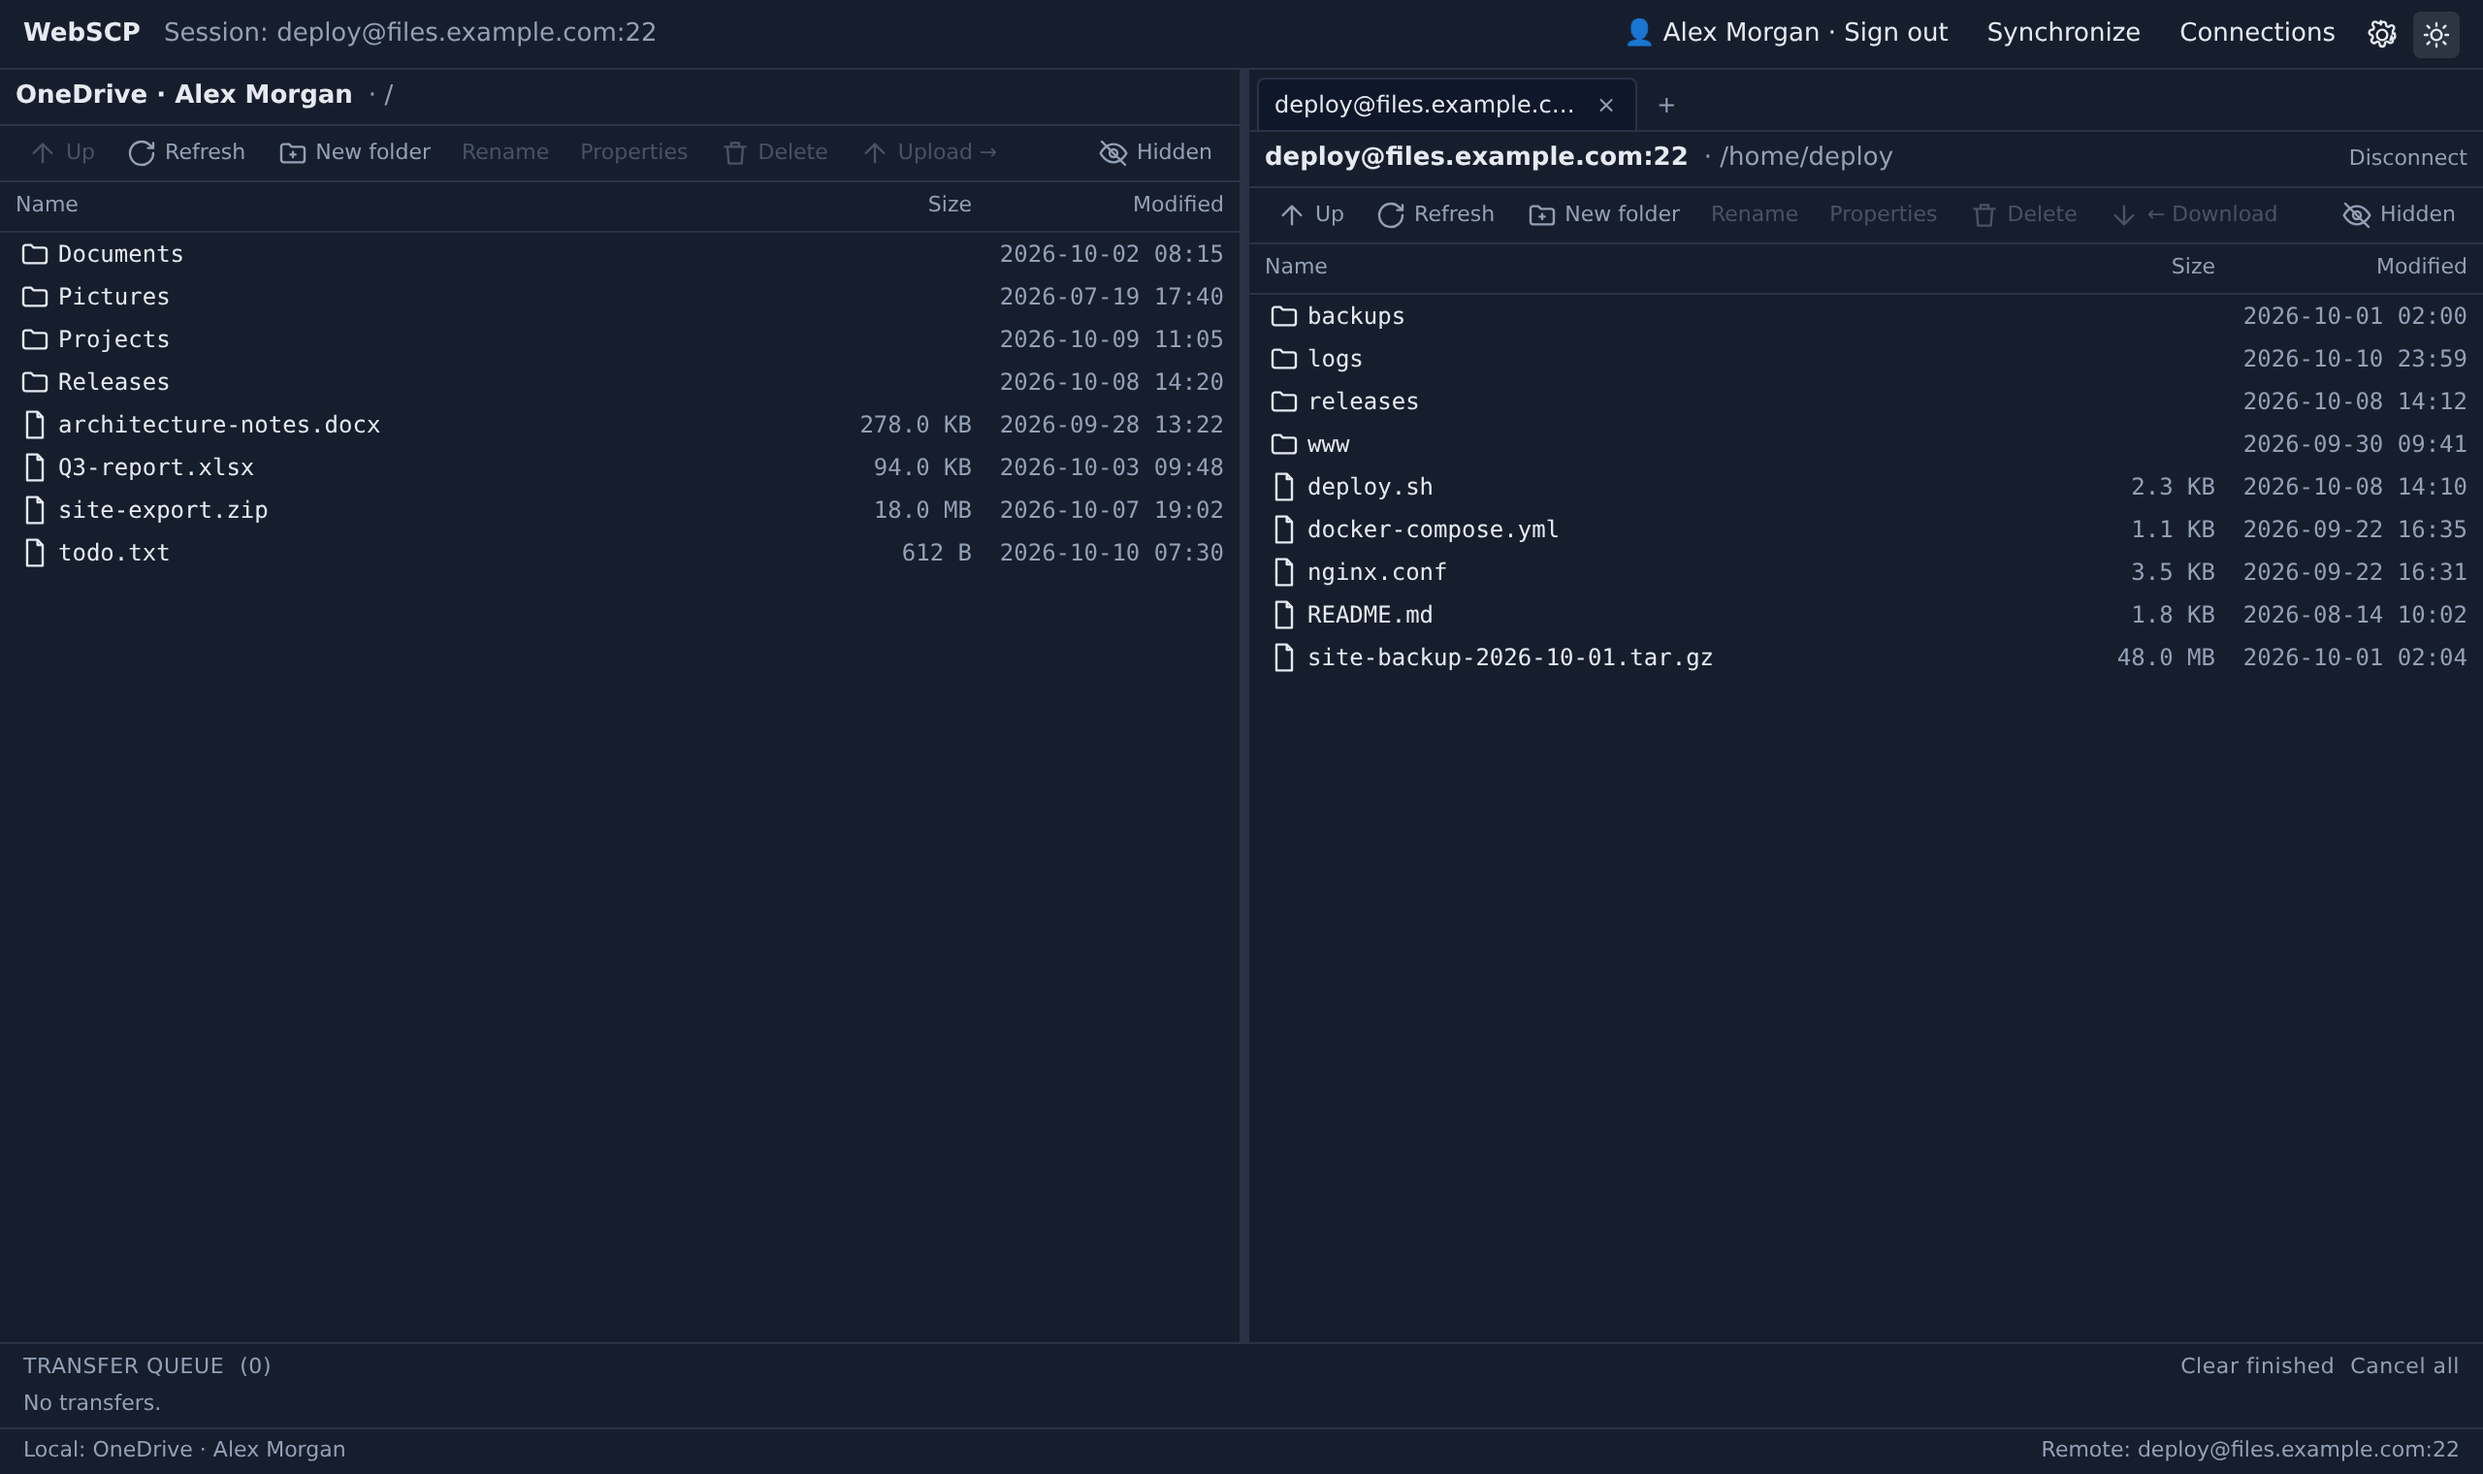
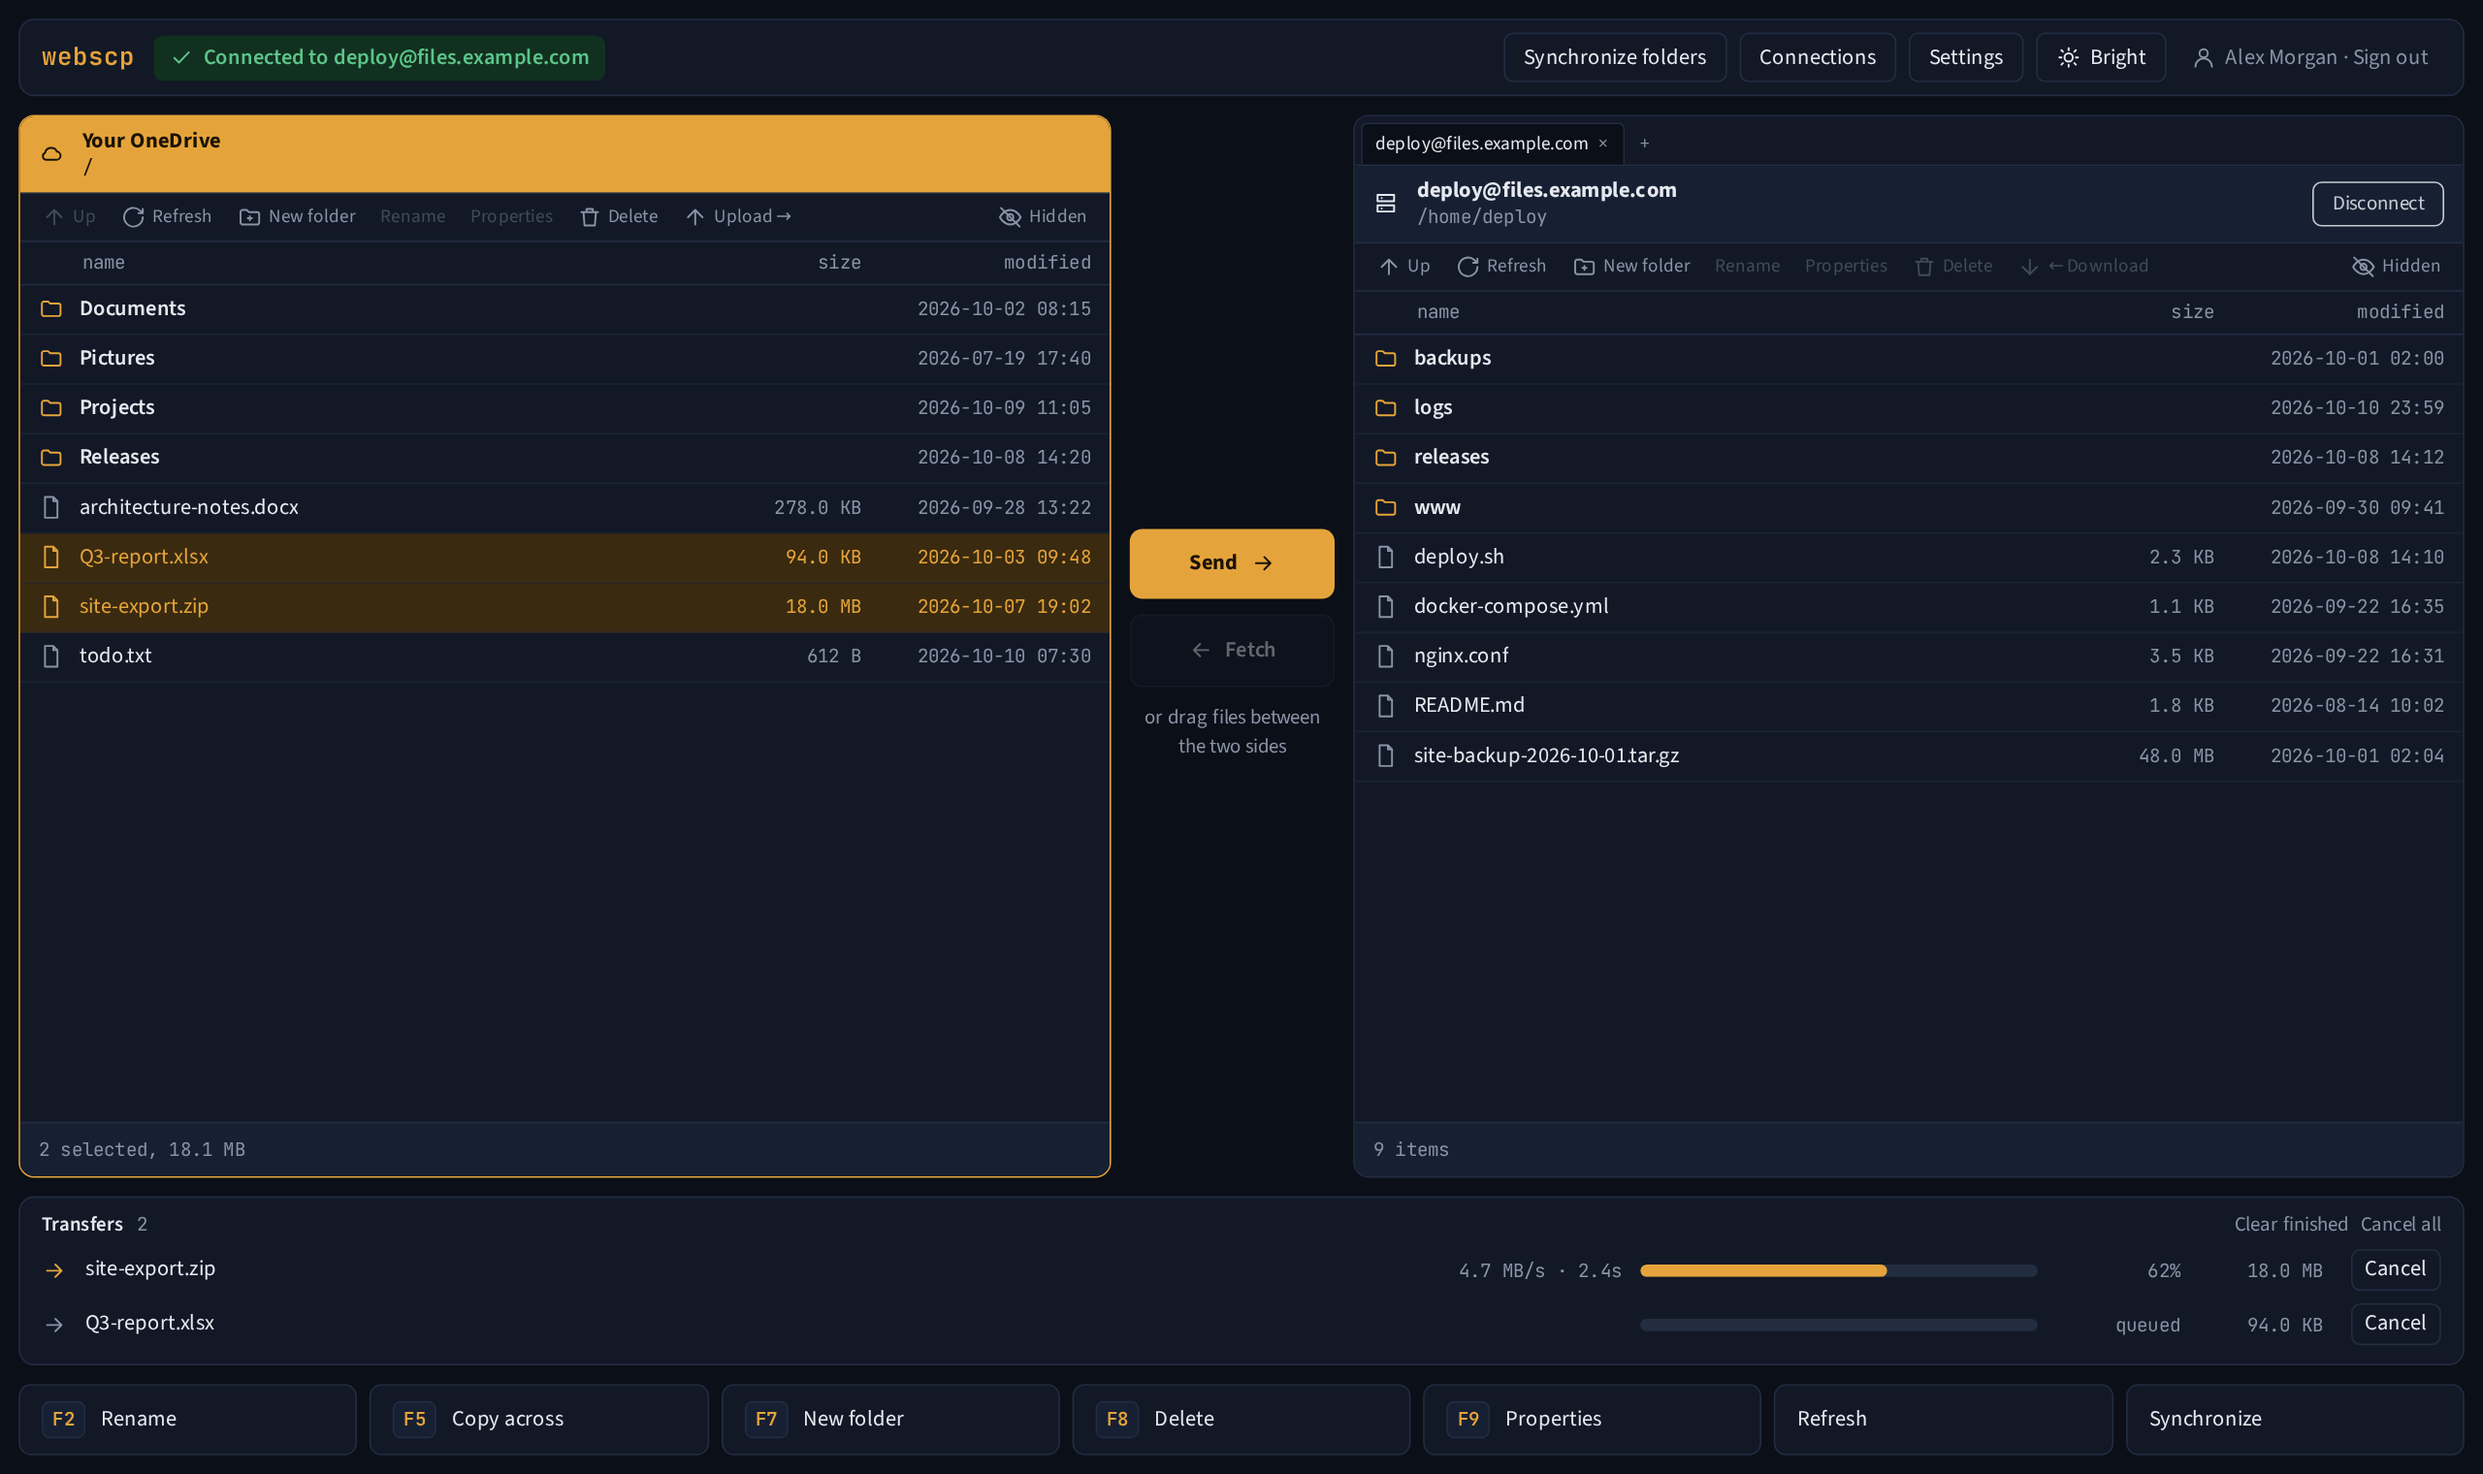
docs: retake README screenshots with a reusable harness
scripts/screenshots renders the real Commander against demo data
(fakeApp.ts) and shoot.mts writes the four README images in both themes,
so they no longer need a stand-in host or a throwaway SFTP server.

Claude-Session: https://claude.ai/code/session_01XXHoAThNSsUeZhh38MG6aL

diff --git a/scripts/screenshots/fakeApp.ts b/scripts/screenshots/fakeApp.ts
@@ -1,0 +1,108 @@
+// Stand-in for src/state/AppProvider used only by the screenshot harness.
+// Every name and file here is demo data.
+import type { FileSystem, FsEntry } from '../../src/fs/FileSystem';
+
+const at = (s: string) => Date.parse(`${s}:00Z`);
+const KB = 1024;
+const MB = 1024 * 1024;
+
+type Row = [name: string, size: number | null, mtime: string];
+
+function demoFs(kind: string, label: string, tree: Record<string, Row[]>): FileSystem {
+  const list = async (path: string): Promise<FsEntry[]> =>
+    (tree[path] ?? []).map(([name, size, mtime]) => ({
+      name,
+      path: `${path === '/' ? '' : path}/${name}`,
+      kind: size === null ? 'dir' : 'file',
+      size: size ?? undefined,
+      mtime: at(mtime),
+    }));
+  const refuse = async () => {
+    throw new Error('demo data is read-only');
+  };
+  return { kind, label, list, stat: refuse, mkdir: refuse, rename: refuse, remove: refuse, move: refuse, openRead: refuse, openWrite: refuse } as unknown as FileSystem;
+}
+
+const local = demoFs('onedrive', 'Your OneDrive', {
+  '/': [
+    ['Documents', null, '2026-10-02 08:15'],
+    ['Pictures', null, '2026-07-19 17:40'],
+    ['Projects', null, '2026-10-09 11:05'],
+    ['Releases', null, '2026-10-08 14:20'],
+    ['architecture-notes.docx', 278 * KB, '2026-09-28 13:22'],
+    ['Q3-report.xlsx', 94 * KB, '2026-10-03 09:48'],
+    ['site-export.zip', 18 * MB, '2026-10-07 19:02'],
+    ['todo.txt', 612, '2026-10-10 07:30'],
+  ],
+});
+
+const remote = demoFs('sftp', 'deploy@files.example.com', {
+  '/home/deploy': [
+    ['backups', null, '2026-10-01 02:00'],
+    ['logs', null, '2026-10-10 23:59'],
+    ['releases', null, '2026-10-08 14:12'],
+    ['www', null, '2026-09-30 09:41'],
+    ['deploy.sh', 2.3 * KB, '2026-10-08 14:10'],
+    ['docker-compose.yml', 1.1 * KB, '2026-09-22 16:35'],
+    ['nginx.conf', 3.5 * KB, '2026-09-22 16:31'],
+    ['README.md', 1.8 * KB, '2026-08-14 10:02'],
+    ['site-backup-2026-10-01.tar.gz', 48 * MB, '2026-10-01 02:04'],
+  ],
+});
+
+const params = new URLSearchParams(location.search);
+const view = params.get('view') ?? 'main';
+const noop = () => {};
+const started = Date.now() - 2400;
+
+const state: Record<string, unknown> = {
+  theme: { theme: params.get('theme') === 'dark' ? 'dark' : 'light', toggle: noop, set: noop },
+  local,
+  remote,
+  userName: 'Alex Morgan',
+  connecting: false,
+  connectError: null,
+  remoteConnecting: false,
+  remoteError: null,
+  remoteHome: '/home/deploy',
+  connectDialogOpen: view === 'connect',
+  connectDialogPrefill: undefined,
+  enablePassphraseKeys: false,
+  hostKeyPrompt:
+    view === 'hostkey'
+      ? { host: 'files.example.com:22', fingerprint: 'SHA256:3fJq0m9N1v8pWc2LrX5yTz7KbHdE4sAaGuQiOe6lVnM', status: 'new' }
+      : null,
+  connections: [],
+  vaultState: 'unlocked',
+  connectionManagerOpen: false,
+  passphraseDialog: null,
+  conflictPrompt: null,
+  settingsOpen: false,
+  syncOpen: false,
+  canSync: true,
+  canReconnect: false,
+  splitRatio: 0.5,
+  jobs:
+    view === 'main'
+      ? [
+          { id: '1', name: 'site-export.zip', direction: 'up', size: 18 * MB, bytes: 11.2 * MB, state: 'active', isDir: false, startedAt: started },
+          { id: '2', name: 'Q3-report.xlsx', direction: 'up', size: 94 * KB, bytes: 0, state: 'queued', isDir: false },
+        ]
+      : [],
+  localCwd: '/',
+  remoteCwd: '/home/deploy',
+  // Matches the two rows shoot.mts selects, so Send shows as available.
+  localSelection: [{ name: 'Q3-report.xlsx' }, { name: 'site-export.zip' }],
+  remoteSelection: [],
+  remoteSessions: [{ id: 's1', label: 'deploy@files.example.com', active: true, dropped: false }],
+  activeSessionId: 's1',
+  localRefreshNonce: 0,
+  remoteRefreshNonce: 0,
+};
+
+// Anything not listed above is an action; the harness ignores it.
+const app = new Proxy(state, { get: (t, k: string) => (k in t ? t[k] : noop) });
+
+export function useApp() {
+  return app as never;
+}

diff --git a/scripts/screenshots/harness.tsx b/scripts/screenshots/harness.tsx
@@ -1,0 +1,14 @@
+import { createRoot } from 'react-dom/client';
+import '@fontsource/source-sans-3/latin-400.css';
+import '@fontsource/source-sans-3/latin-600.css';
+import '@fontsource/source-sans-3/latin-700.css';
+import '@fontsource/jetbrains-mono/latin-400.css';
+import '@fontsource/jetbrains-mono/latin-600.css';
+import '../../src/index.css';
+import { Commander } from '../../src/layouts/Commander';
+import { TabbedSingle } from '../../src/layouts/TabbedSingle';
+
+const params = new URLSearchParams(location.search);
+const theme = params.get('theme') === 'dark' ? 'dark' : 'light';
+document.documentElement.setAttribute('data-theme', theme);
+createRoot(document.getElementById('root')!).render(params.get('layout') === 'tabbed' ? <TabbedSingle /> : <Commander />);

diff --git a/scripts/screenshots/index.html b/scripts/screenshots/index.html
@@ -1,0 +1,12 @@
+<!doctype html>
+<html lang="en">
+  <head>
+    <meta charset="UTF-8" />
+    <meta name="viewport" content="width=device-width, initial-scale=1.0" />
+    <title>WebSCP</title>
+  </head>
+  <body>
+    <div id="root"></div>
+    <script type="module" src="./harness.tsx"></script>
+  </body>
+</html>
